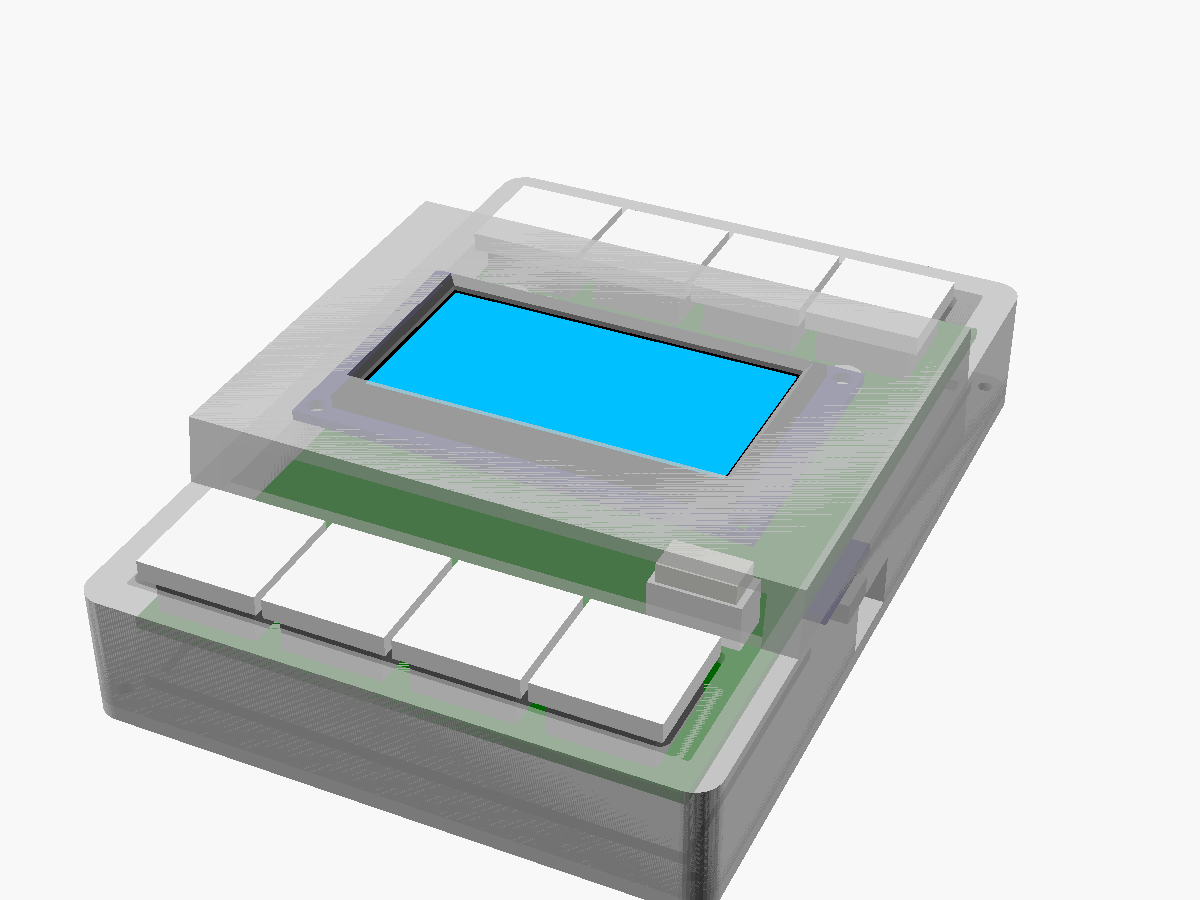
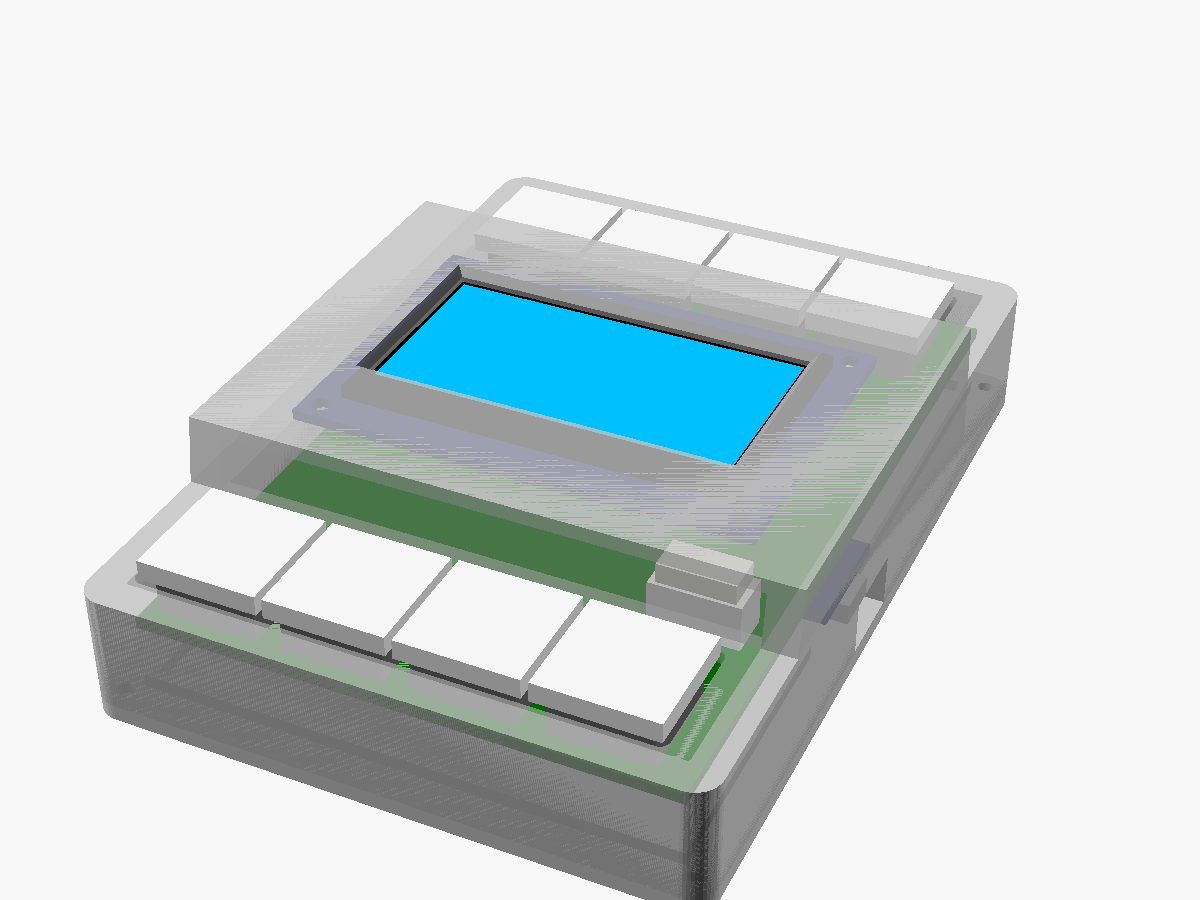
OLED: moduł ShengYang 2,42" – warianty 4-pin I²C i 7-pin SPI w obudowie i dokumentacji
- case: oled_variant (i2c_4pin 70,10 × 48,10 mm domyślnie, spi_7pin 72 × 43 mm), moduł
  odsuwany od J1, asercje: słupek–szkło i zmieszczenie modułu pod pokładem,
- docs/WIRING.md i README: model, wymiary z karty sprzedawcy, wyprowadzenia, co zmierzyć,
- docs/img/oled_242_shengyang.png: karta sprzedawcy.

Changed region(s): [[0.37, 0.28, 0.6783, 0.4356], [0.2775, 0.4044, 0.6167, 0.5289]]

diff --git a/docs/WIRING.md b/docs/WIRING.md
@@ -52,6 +52,19 @@ Wolne: 0/1 (UART TX/RX), A0–A3, 10, 14, 15, 16.
 
 ## OLED 2,42" SSD1309 128×64 (I²C), złącze J1
 
+Używany moduł: **ShengYang 2,42" OLED** (karta sprzedawcy: [img/oled_242_shengyang.png](img/oled_242_shengyang.png)).
+Sprzedawca oferuje kilka wersji płytki – w obudowie wybiera się je parametrem `oled_variant`:
+
+| Wersja | Płytka modułu | Wyprowadzenia | `oled_variant` |
+|---|---|---|---|
+| I²C, 4 piny | 70,10 × 48,10 mm | 4 piny u góry (zwykle GND, VCC, SCL, SDA – sprawdź nadruk), złącze na dolnej krawędzi | `i2c_4pin` (domyślnie) |
+| SPI/I²C, 7 pinów | 72,00 × 43,00 mm (starsza: 70,90 × 43,40) | 7 pinów z lewej, od pinu 1: GND, VCC, SCK (=SCL), SDA, RES, DC, CS | `spi_7pin` |
+
+Wymiary płytek pochodzą z karty sprzedawcy. Otwory montażowe (Ø3, w narożnikach) nie są
+zwymiarowane – obudowa zakłada rozstaw ok. 3 mm od krawędzi (64,1 × 42,1 / 66,0 × 37,0 mm),
+a szkło panelu 60,5 × 37 × 2 mm z obszarem aktywnym 55,01 × 27,49 mm na środku płytki.
+**Zmierz moduł przed drukiem obudowy** (`oled_holes`, `oled_glass_d`, `oled_active_d`).
+
 | J1 | Sygnał | Pro Micro |
 |---|---|---|
 | 1 | GND | GND |
@@ -66,10 +79,12 @@ Wolne: 0/1 (UART TX/RX), A0–A3, 10, 14, 15, 16.
   sprawdza magistralę programowo z zamienionymi liniami i działa dalej w programowym I²C
   (`swapped` w `hello`, ostrzeżenie w dzienniku aplikacji). Działa, ale wolniej – lepiej
   dopasować kolejność na płytce.
-- **I²C zamiast SPI.** Wiele modułów 2,42" (7 pinów) jest fabrycznie ustawionych na SPI;
-  tryb I²C wybiera się zworkami/rezystorami na odwrocie – według opisu nadrukowanego na
-  module lub karty sprzedawcy (RES trzeba wtedy podciągnąć do VCC). Moduł 4-pinowy jest od razu
-  w I²C.
+- **I²C zamiast SPI.** Wersja 7-pinowa jest fabrycznie ustawiona na SPI; tryb I²C wybiera się
+  zworkami/rezystorami na odwrocie – według opisu nadrukowanego na module lub karty sprzedawcy
+  (RES trzeba wtedy podciągnąć do VCC). Wersja 4-pinowa jest od razu w I²C.
+- **Przewód do J1.** J1 (JST XH 4-pin) leży tuż pod dolną krawędzią modułu; obudowa przesuwa
+  moduł tak, by zostały ≥ 2 mm odstępu (wersja 4-pinowa: o 2,7 mm w górę od środka szczeliny).
+  Kolejność żył dopasuj do nadruku modułu – J1 ma GND, +5 V, SDA, SCL.
 - **Sterownik.** Firmware używa `u8x8_d_ssd1309_128x64_noname2` (najczęstsze moduły 2,42").
   Jeśli obraz jest przesunięty o 2 kolumny albo pojawiają się śmieci przy krawędzi, zmień na
   `noname0` w `firmware/src/mini_gfx.cpp`.

diff --git a/README.md b/README.md
@@ -37,8 +37,9 @@ docs/       PROTOCOL.md, WIRING.md, schematic.png (schemat płytki)
 
 - 1× Arduino / SparkFun **Pro Micro** (ATmega32U4), 5 V/16 MHz albo 3,3 V/8 MHz
 - 8× przełącznik **Kailh Choc** (low profile) + nasadki Choc, 8× dioda 1N4148
-- 1× OLED **2,42" SSD1309 128×64 I²C** (adres 0x3C; wiele modułów 2,42" wychodzi z fabryki
-  ustawionych na SPI – trzeba przełożyć zworki/rezystory na I²C)
+- 1× OLED **2,42" SSD1309 128×64 I²C** – moduł ShengYang, najlepiej wersja **4-pinowa I²C**
+  (70,10 × 48,10 mm); wersja 7-pinowa (72 × 43 mm) wymaga przełożenia rezystorów z SPI na I²C.
+  Szczegóły i karta sprzedawcy: [docs/WIRING.md](docs/WIRING.md#oled-242-ssd1309-12864-ic-złącze-j1)
 - płytka ChocPilot (schemat: [docs/schematic.png](docs/schematic.png))
 
 ## Montaż
@@ -216,9 +217,11 @@ Części: `shell`, `bottom`; podgląd: `assembly`, `exploded`. Wysokość: 20 mm
 30 mm przy ekranie – pod pokładem musi zmieścić się wtyk XH w J1 z przewodami (`j1_clear` = 14 mm
 nad PCB). Z niższym złączem (np. przewody wlutowane) zmniejsz `j1_clear`, a pokład się obniży.
 
-**Przed drukiem zmierz moduł OLED** – jego wymiary to nadal założenia (płytka 70 × 43 mm,
-otwory Ø3 w rozstawie 65 × 38 mm, szkło 60,5 × 37 × 2 mm, obszar aktywny 55,01 × 27,49 mm,
-wszystko wyśrodkowane). Słupki mieszczą się tylko ok. 0,75 mm od szkła. Zakładany jest też
+**Moduł OLED:** ShengYang 2,42", wersja wybierana parametrem `oled_variant` – `i2c_4pin`
+(domyślnie, 70,10 × 48,10 mm) albo `spi_7pin` (72 × 43 mm). Wymiary płytek są z karty
+sprzedawcy, ale rozstaw otworów (ok. 3 mm od krawędzi) i położenie szkła są oszacowane –
+**zmierz moduł przed drukiem**. Słupki mieszczą się tylko 0,35–0,55 mm od szkła; plik
+sprawdza to (i zmieszczenie modułu pod pokładem) asercjami przy renderowaniu. Zakładany jest też
 montaż Pro Micro od spodu płytki (elementy w dół) – przy montażu od góry trzeba zmienić
 `standoff_h`, wycięcie USB i miejsce pod modułem.
 
